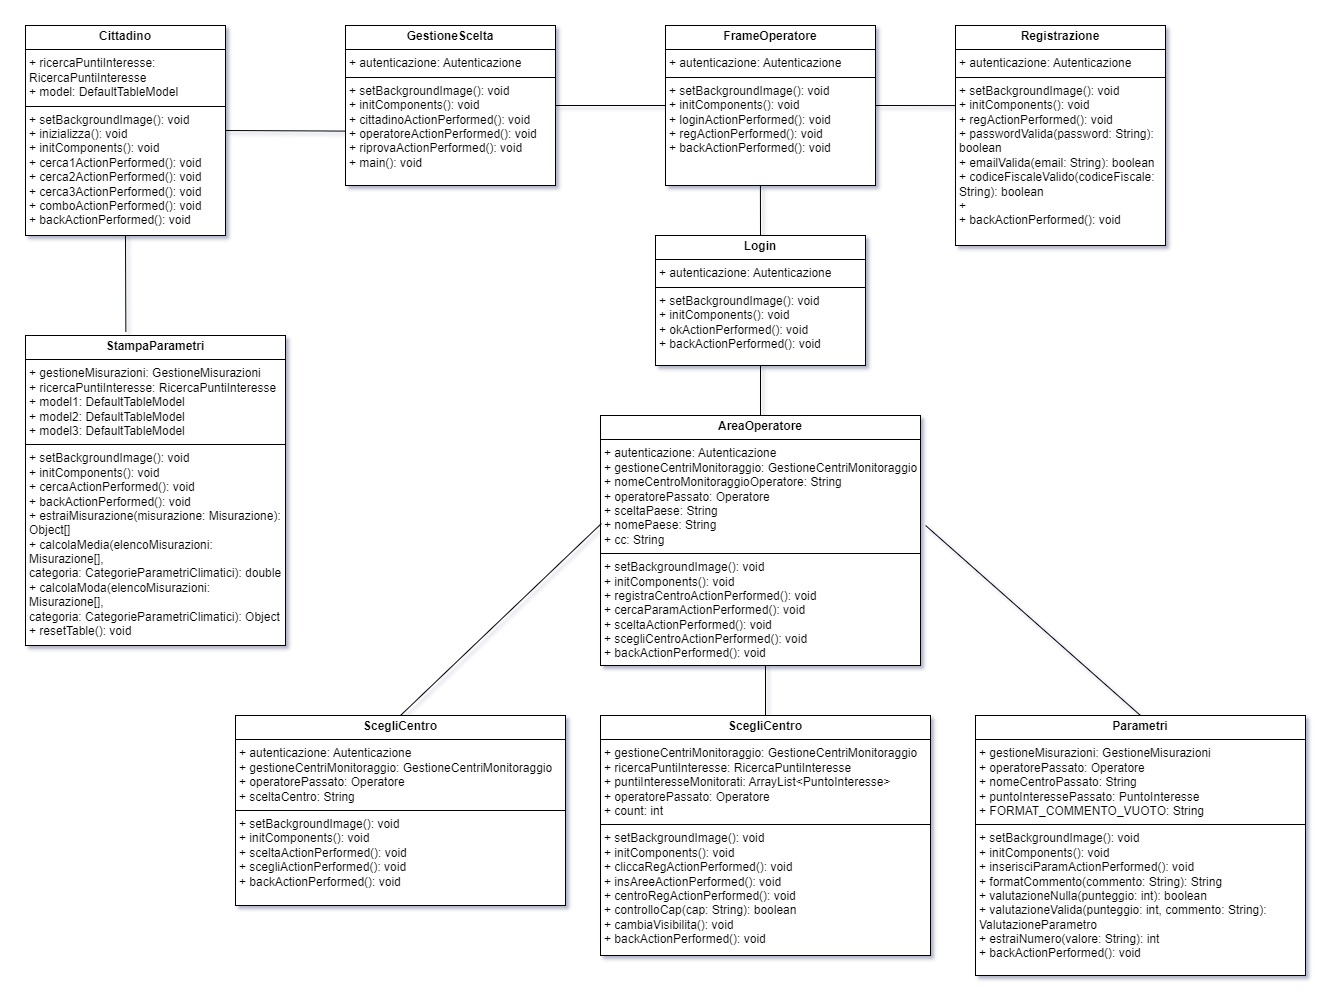
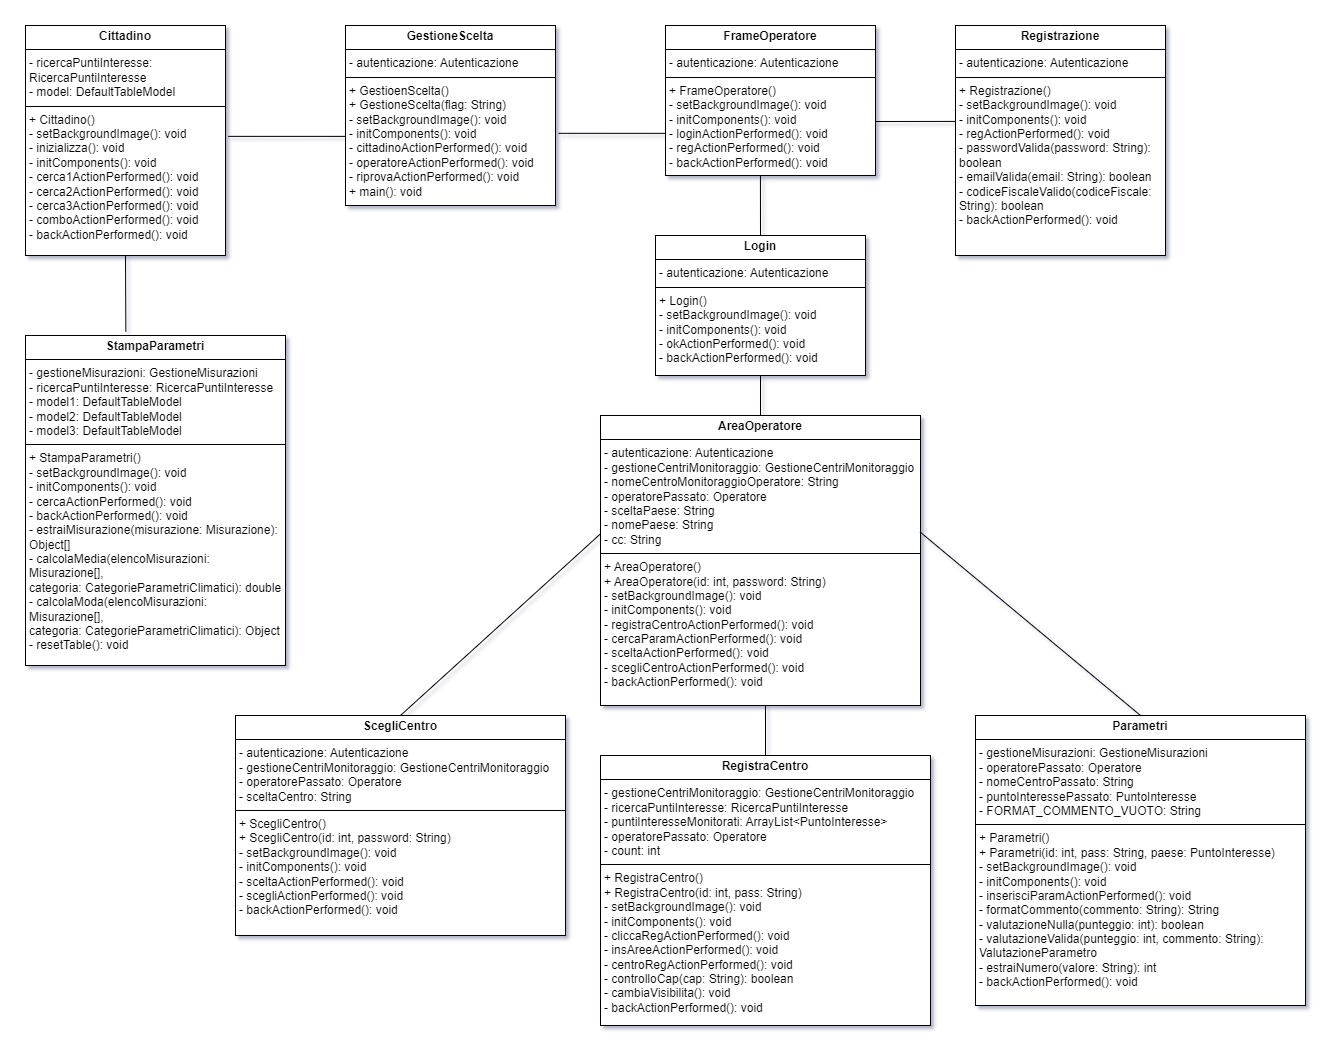
edi uml client, commons and make attributes private

diff --git a/src/main/java/client/frame/AreaOperatore.java b/src/main/java/client/frame/AreaOperatore.java
@@ -37,25 +37,25 @@ import javax.swing.*;
  */
 public class AreaOperatore extends javax.swing.JFrame {
     /** L'oggetto per l'autenticazione dell'operatore. */
-    Autenticazione autenticazione = ClientRMI.ottieniClientRMI().ottieniStubAutenticazione();
+    private Autenticazione autenticazione = ClientRMI.ottieniClientRMI().ottieniStubAutenticazione();
 
     /** L'oggetto per la gestione dei centri di monitoraggio. */
-    GestioneCentriMonitoraggio gestioneCentriMonitoraggio = ClientRMI.ottieniClientRMI().ottieniStubGestioneCentriMonitoraggio();
+    private GestioneCentriMonitoraggio gestioneCentriMonitoraggio = ClientRMI.ottieniClientRMI().ottieniStubGestioneCentriMonitoraggio();
 
     /** Il nome del centro di monitoraggio associato all'operatore. */
-    String nomeCentroMonitoraggioOperatore;
+    private String nomeCentroMonitoraggioOperatore;
 
     /** L'oggetto operatore passato all'area operatore. */
-    Operatore operatorePassato;
+    private Operatore operatorePassato;
 
     /** Il nome del paese selezionato nella combo box. */
-    String sceltaPaese = null;
+    private String sceltaPaese = null;
 
     /** Il nome del paese selezionato. */
-    String nomePaese = null;
+    private String nomePaese = null;
 
     /** Il codice del paese selezionato. */
-    String cc = null;
+    private String cc = null;
     
     /**
      * Costruttore predefinito della classe {@code AreaOperatore}.

diff --git a/src/main/java/client/frame/RegistraCentro.java b/src/main/java/client/frame/RegistraCentro.java
@@ -35,19 +35,19 @@ import javax.swing.ImageIcon;
 public class RegistraCentro extends javax.swing.JFrame {
 
     /** Oggetto per la gestione dei centri di monitoraggio. */
-    GestioneCentriMonitoraggio gestioneCentriMonitoraggio;
+    private GestioneCentriMonitoraggio gestioneCentriMonitoraggio;
 
     /** Oggetto per la ricerca dei punti di interesse. */
-    RicercaPuntiInteresse ricercaPuntiInteresse = ClientRMI.ottieniClientRMI().ottieniStubRicercaPuntiInteresse();
+    private RicercaPuntiInteresse ricercaPuntiInteresse = ClientRMI.ottieniClientRMI().ottieniStubRicercaPuntiInteresse();
 
     /** Lista dei punti di interesse monitorati. */
-    ArrayList<PuntoInteresse> puntiInteresseMonitorati = new ArrayList<>();
+    private ArrayList<PuntoInteresse> puntiInteresseMonitorati = new ArrayList<>();
 
     /** Operatore che sta effettuando la registrazione. */
-    Operatore operatorePassato;
+    private Operatore operatorePassato;
 
     /** Contatore per il numero di punti di interesse associati. */
-    int count;
+    private int count;
 
     /** Costruttore vuoto di default. */
     public RegistraCentro() {

diff --git a/src/main/java/client/frame/Cittadino.java b/src/main/java/client/frame/Cittadino.java
@@ -32,10 +32,10 @@ import javax.swing.ImageIcon;
  */
 public class Cittadino extends javax.swing.JFrame {
     /** Oggetto per la ricerca dei punti di interesse tramite RMI. */
-    RicercaPuntiInteresse ricercaPuntiInteresse = ClientRMI.ottieniClientRMI().ottieniStubRicercaPuntiInteresse();;
+    private RicercaPuntiInteresse ricercaPuntiInteresse = ClientRMI.ottieniClientRMI().ottieniStubRicercaPuntiInteresse();;
 
     /** Modello della tabella per visualizzare i risultati della ricerca. */
-    DefaultTableModel model;
+    private DefaultTableModel model;
 
     /**
      * Crea una nuova istanza della finestra {@code Cittadino}.
@@ -67,7 +67,7 @@ public class Cittadino extends javax.swing.JFrame {
      * Inizializza i componenti visivi e il modello della tabella.
      * <p>Imposta la visibilità degli elementi in base ai criteri di ricerca e carica l'elenco dei punti di interesse.</p>
      */
-    public void inizializza(){
+    private void inizializza(){
         ric1.setVisible(false);
         ric2.setVisible(false);
         ric3.setVisible(false);

diff --git a/src/main/java/client/frame/ScegliCentro.java b/src/main/java/client/frame/ScegliCentro.java
@@ -40,16 +40,16 @@ import javax.swing.*;
 public class ScegliCentro extends javax.swing.JFrame {
 
     /** Oggetto per l'autenticazione dell'operatore. */
-    Autenticazione autenticazione;
+    private Autenticazione autenticazione;
 
     /** Oggetto per la gestione dei centri di monitoraggio. */
-    GestioneCentriMonitoraggio gestioneCentriMonitoraggio = ClientRMI.ottieniClientRMI().ottieniStubGestioneCentriMonitoraggio();
+    private GestioneCentriMonitoraggio gestioneCentriMonitoraggio = ClientRMI.ottieniClientRMI().ottieniStubGestioneCentriMonitoraggio();
 
     /** Operatore passato per la selezione del centro di monitoraggio. */
-    Operatore operatorePassato;
+    private Operatore operatorePassato;
 
     /** Nome del centro di monitoraggio selezionato. */
-    String sceltaCentro = null;
+    private String sceltaCentro = null;
 
     /** Crea una nuova istanza di {@code ScegliCentro} senza parametri e inizializza i componenti. */
     public ScegliCentro() {

diff --git a/src/main/java/client/frame/Parametri.java b/src/main/java/client/frame/Parametri.java
@@ -41,16 +41,16 @@ import javax.swing.ImageIcon;
 public class Parametri extends javax.swing.JFrame {
 
     /** Oggetto per la gestione delle misurazioni tramite RMI */
-    GestioneMisurazioni gestioneMisurazioni;
+    private GestioneMisurazioni gestioneMisurazioni;
 
     /** Operatore passato per autenticazione e altre operazioni */
-    Operatore operatorePassato;
+    private Operatore operatorePassato;
 
     /** Nome del centro passato per la registrazione delle misurazioni */
-    String nomeCentroPassato;
+    private String nomeCentroPassato;
 
     /** Punto di interesse passato per la registrazione delle misurazioni */
-    PuntoInteresse puntoInteressePassato;
+    private PuntoInteresse puntoInteressePassato;
 
     /** Valore di default per i commenti vuoti */
     private static final String FORMAT_COMMENTO_VUOTO = "/";

diff --git a/src/main/java/client/frame/StampaParametri.java b/src/main/java/client/frame/StampaParametri.java
@@ -43,13 +43,13 @@ import javax.imageio.ImageIO;
 public class StampaParametri extends JFrame {
 
     /** Gestisce le misurazioni. */
-    GestioneMisurazioni gestioneMisurazioni;
+    private GestioneMisurazioni gestioneMisurazioni;
 
     /** Interfaccia per la ricerca dei punti di interesse. */
-    RicercaPuntiInteresse ricercaPuntiInteresse = ClientRMI.ottieniClientRMI().ottieniStubRicercaPuntiInteresse();
+    private RicercaPuntiInteresse ricercaPuntiInteresse = ClientRMI.ottieniClientRMI().ottieniStubRicercaPuntiInteresse();
 
     /** Modello di tabella per la visualizzazione delle misurazioni. */
-    DefaultTableModel model1, model2, model3;
+    private DefaultTableModel model1, model2, model3;
 
     /**
      * Costruttore della classe {@code StampaParametri}.

diff --git a/src/main/java/client/frame/GestioneScelta.java b/src/main/java/client/frame/GestioneScelta.java
@@ -29,7 +29,7 @@ import javax.swing.ImageIcon;
 public class GestioneScelta extends javax.swing.JFrame {
 
     /** Oggetto per l'autenticazione tramite RMI */
-    Autenticazione autenticazione;
+    private Autenticazione autenticazione;
 
     /**
      * Costruttore predefinito che inizializza la finestra per la selezione tra cittadino e operatore.

diff --git a/src/main/java/client/frame/Registrazione.java b/src/main/java/client/frame/Registrazione.java
@@ -33,7 +33,7 @@ import javax.swing.ImageIcon;
  */
 public class Registrazione extends javax.swing.JFrame {
     /** Oggetto per gestire l'autenticazione tramite RMI. */
-    Autenticazione autenticazione;
+    private Autenticazione autenticazione;
 
     /**
      * Costruttore per inizializzare i componenti dell'interfaccia utente,

diff --git a/src/main/java/client/frame/Login.java b/src/main/java/client/frame/Login.java
@@ -33,7 +33,7 @@ import javax.swing.ImageIcon;
 public class Login extends javax.swing.JFrame {
 
     /** Oggetto per l'autenticazione tramite RMI */
-    Autenticazione autenticazione;
+    private Autenticazione autenticazione;
 
     /**
      * Costruttore predefinito che inizializza la finestra di login.

diff --git a/src/main/java/client/frame/FrameOperatore.java b/src/main/java/client/frame/FrameOperatore.java
@@ -30,7 +30,7 @@ import javax.swing.ImageIcon;
 public class FrameOperatore extends javax.swing.JFrame {
 
     /** Oggetto per l'autenticazione tramite RMI */
-     Autenticazione autenticazione;
+     private Autenticazione autenticazione;
 
     /**
      * Costruttore del frame operatore.
